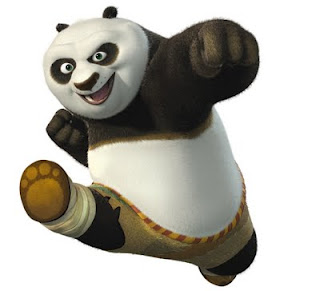
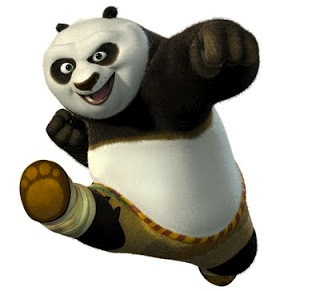
Updated

diff --git a/stylesheets/stylesheet.css b/stylesheets/stylesheet.css
@@ -83,8 +83,9 @@ h1.title {
 }
 
 .wrapper img {
-    width: 80px;
-    margin-bottom: -20px;
+    margin-top: 10px;
+    width: 120px;
+    margin-bottom: -10px;
 }
 
 #container {
